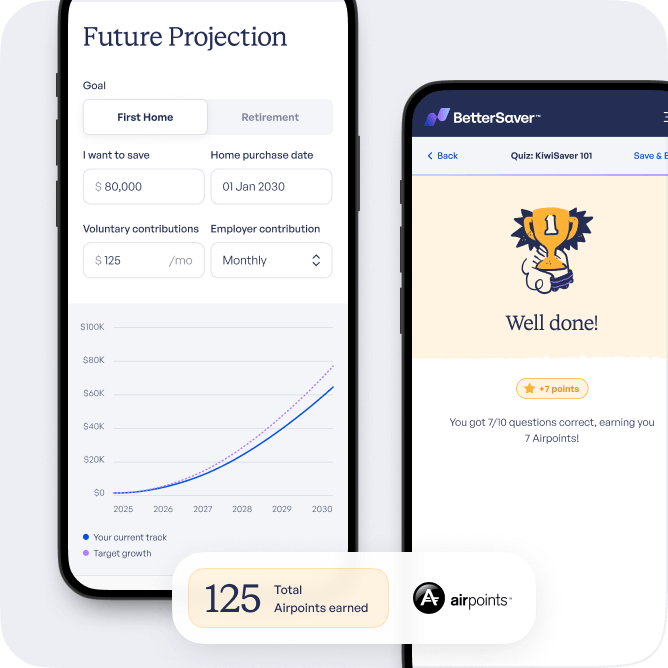
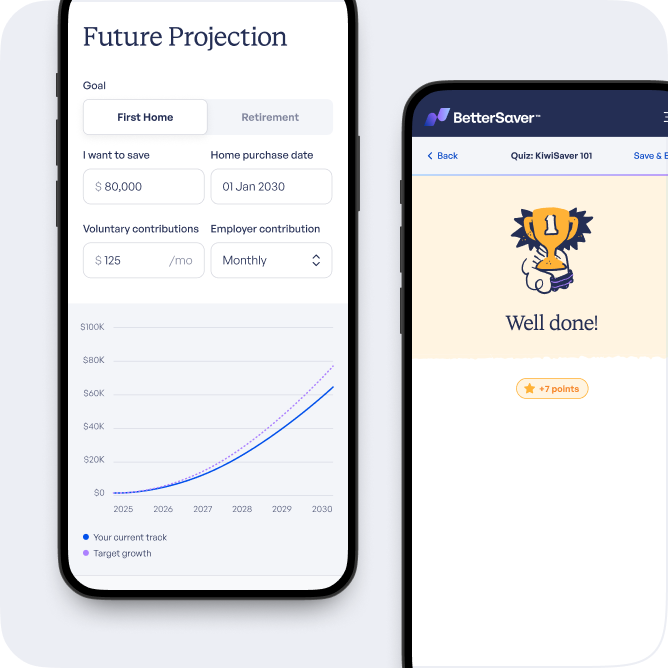
Fix header for upgraded hugo, remove aripoints from homepage

Changed region(s): [[0.2395, 0.8084, 0.7485, 0.988], [0.6886, 0.6287, 0.988, 0.6587]]

diff --git a/themes/bettersaver/layouts/partials/site-header.html b/themes/bettersaver/layouts/partials/site-header.html
@@ -75,7 +75,8 @@
           <path
             d="M118.736 0C120.897 3.65971e-05 122.29 0.550927 123.683 1.71875L124.843 0.675781L125.234 1.02637L121.306 4.78027C120.555 3.47893 119.119 1.67649 117.268 1.43457V11.8789C120.821 9.35964 121.772 8.4502 121.772 8.4502C122.064 8.62538 125.351 10.6362 126.386 11.2451V11.3701L126.402 11.3867C126.01 11.687 125.735 12.3211 125.735 13.1553V25.3096C125.735 28.4877 122.874 31.099 119.596 32L119.195 31.7832C120.722 30.4402 121.956 28.7629 121.956 26.1436V12.9717L119.253 11.0781L117.284 12.5381V25.9434L117.359 25.9854L118.703 24.6924L119.12 25.0928L115.099 28.9795C113.839 27.9704 111.862 27.4365 109.51 27.4365C106.916 27.4365 105.264 27.8542 103.787 29.0137L103.579 28.5791C104.68 26.5189 107.374 24.6086 109.943 24.1914C110.619 23.4406 111.504 22.1558 111.504 19.9619V7.29883C111.504 5.13849 111.962 3.67006 114.481 1.83496C115.916 0.775534 117.435 0 118.736 0ZM116.843 1.50195C115.984 1.53532 115.282 2.0776 115.282 3.4707V18.085C115.282 20.988 113.022 22.9649 111.02 24.041C113.205 24.0827 115.416 24.7839 116.834 25.543L116.843 1.50195ZM111.516 3.09277C110.933 3.82677 110.386 4.90933 110.386 6.39844V17.9355C110.386 21.1886 108.2 23.3322 105.506 24.9004L104.997 24.751C105.99 23.6999 106.606 22.3146 106.606 20.6045V19.0781C106.056 18.8696 105.647 18.7197 104.93 18.7197C103.32 18.7199 102.528 19.4366 102.228 20.0537L101.943 19.7793C102.085 17.4853 103.187 15.4824 105.03 15.4824C105.581 15.4824 106.281 15.6998 106.606 15.7666V13.5059C106.056 13.2557 105.648 13.1465 104.997 13.1465C103.871 13.1465 102.962 13.339 102.228 14.4902L101.978 14.2061C102.019 11.8371 103.153 9.95215 105.122 9.95215C105.706 9.95216 106.364 10.1524 106.606 10.2275V8.70117C106.606 6.27367 108.267 4.19591 111.187 2.98633L111.516 3.09277ZM111.758 0.287109C110.175 2.50295 109.108 3.44531 107.391 3.44531C106.123 3.44515 104.313 2.61927 103.104 2.61914C102.128 2.61914 101.743 2.84429 101.143 3.32812L100.984 3.07812C101.919 1.3599 103.52 0.141853 104.93 0.141602C106.339 0.141602 108.584 1.03418 109.076 1.03418C109.969 1.03415 110.787 0.684298 111.579 0.0419922L111.758 0.287109ZM111.521 3.09473L111.516 3.09277C111.517 3.09078 111.519 3.0889 111.521 3.08691V3.09473ZM111.762 0.291992L111.758 0.287109C111.759 0.285661 111.761 0.284652 111.762 0.283203V0.291992Z"
             fill="CurrentColor" />
-          <path fill-rule="evenodd" clip-rule="evenodd"
+          <!-- newshub
+            <path fill-rule="evenodd" clip-rule="evenodd"
             d="M272.179 23.5554C272.179 24.9053 271.084 25.9998 269.734 25.9998C268.384 25.9998 267.29 24.9053 267.29 23.5554C267.29 22.2053 268.384 21.1108 269.734 21.1108C271.084 21.1108 272.179 22.2053 272.179 23.5554Z"
             fill="CurrentColor" />
           <path fill-rule="evenodd" clip-rule="evenodd"
@@ -98,7 +99,7 @@
             fill="CurrentColor" />
           <path fill-rule="evenodd" clip-rule="evenodd"
             d="M253.068 25.1795V6.00012H256.944V12.9842H256.998C257.835 11.7311 259.173 11.0503 261.011 10.9428C261.157 10.9252 261.302 10.916 261.448 10.916C263.141 10.916 264.542 11.5786 265.652 12.904C266.744 14.2293 267.29 16.002 267.29 18.2225C267.29 21.1414 266.389 23.2547 264.587 24.5618C263.641 25.224 262.595 25.5558 261.448 25.5558C259.155 25.5558 257.608 24.8396 256.807 23.4066H256.753V25.1795H253.068ZM263.414 18.2494C263.414 16.3688 262.885 15.0618 261.83 14.3274C261.339 13.9693 260.766 13.7901 260.11 13.7901C258.654 13.7901 257.662 14.5691 257.135 16.1273C256.917 16.772 256.807 17.4796 256.807 18.2494C256.807 20.0759 257.317 21.3652 258.336 22.1174C258.845 22.4934 259.437 22.6814 260.11 22.6814C261.566 22.6814 262.558 21.9024 263.086 20.3445C263.304 19.7179 263.414 19.0195 263.414 18.2494Z"
-            fill="CurrentColor" />
+            fill="CurrentColor" /> -->
         </svg></div>
     </div>
     {{ end }}

diff --git a/themes/bettersaver/layouts/partials/func/style/GetMainCSS.html b/themes/bettersaver/layouts/partials/func/style/GetMainCSS.html
@@ -49,7 +49,7 @@ css asset directory we (unless condition below) add to aforementioned slice */}}
       {{ if eq .MediaType.SubType "x-scss" "x-sass" "scss" "sass" }}
         {{ if hugo.IsExtended }}
           {{/* as we cannot concatenate styles of different types, we sass/scss to be transformed to css beforehand */}}
-          {{ $assets_to_concat = $assets_to_concat | append (. | css.Sass) }}
+          {{ $assets_to_concat = $assets_to_concat | append (. | resources.ToCSS) }}
         {{ else }}
           {{ partial "func/warn" (printf "Processing of stylesheet %s of type %s has been skipped. You need Hugo Extended to process such files." .Name .MediaType.SubType) }}
         {{ end }}
@@ -66,7 +66,7 @@ css asset directory we (unless condition below) add to aforementioned slice */}}
 
   {{/* We then use toCSS to add sourceMap and minify */}}
   {{ $options := dict "enableSourceMap" true "precision" 6 }}
-  {{ $style = $style | css.Sass $options | minify }}
+  {{ $style = $style | resources.ToCSS $options | minify }}
   {{/* We fingerprint in production for cache busting purposes */}}
   {{ if eq (getenv "HUGO_ENV") "production" }}
     {{ $style = $style | fingerprint }}
